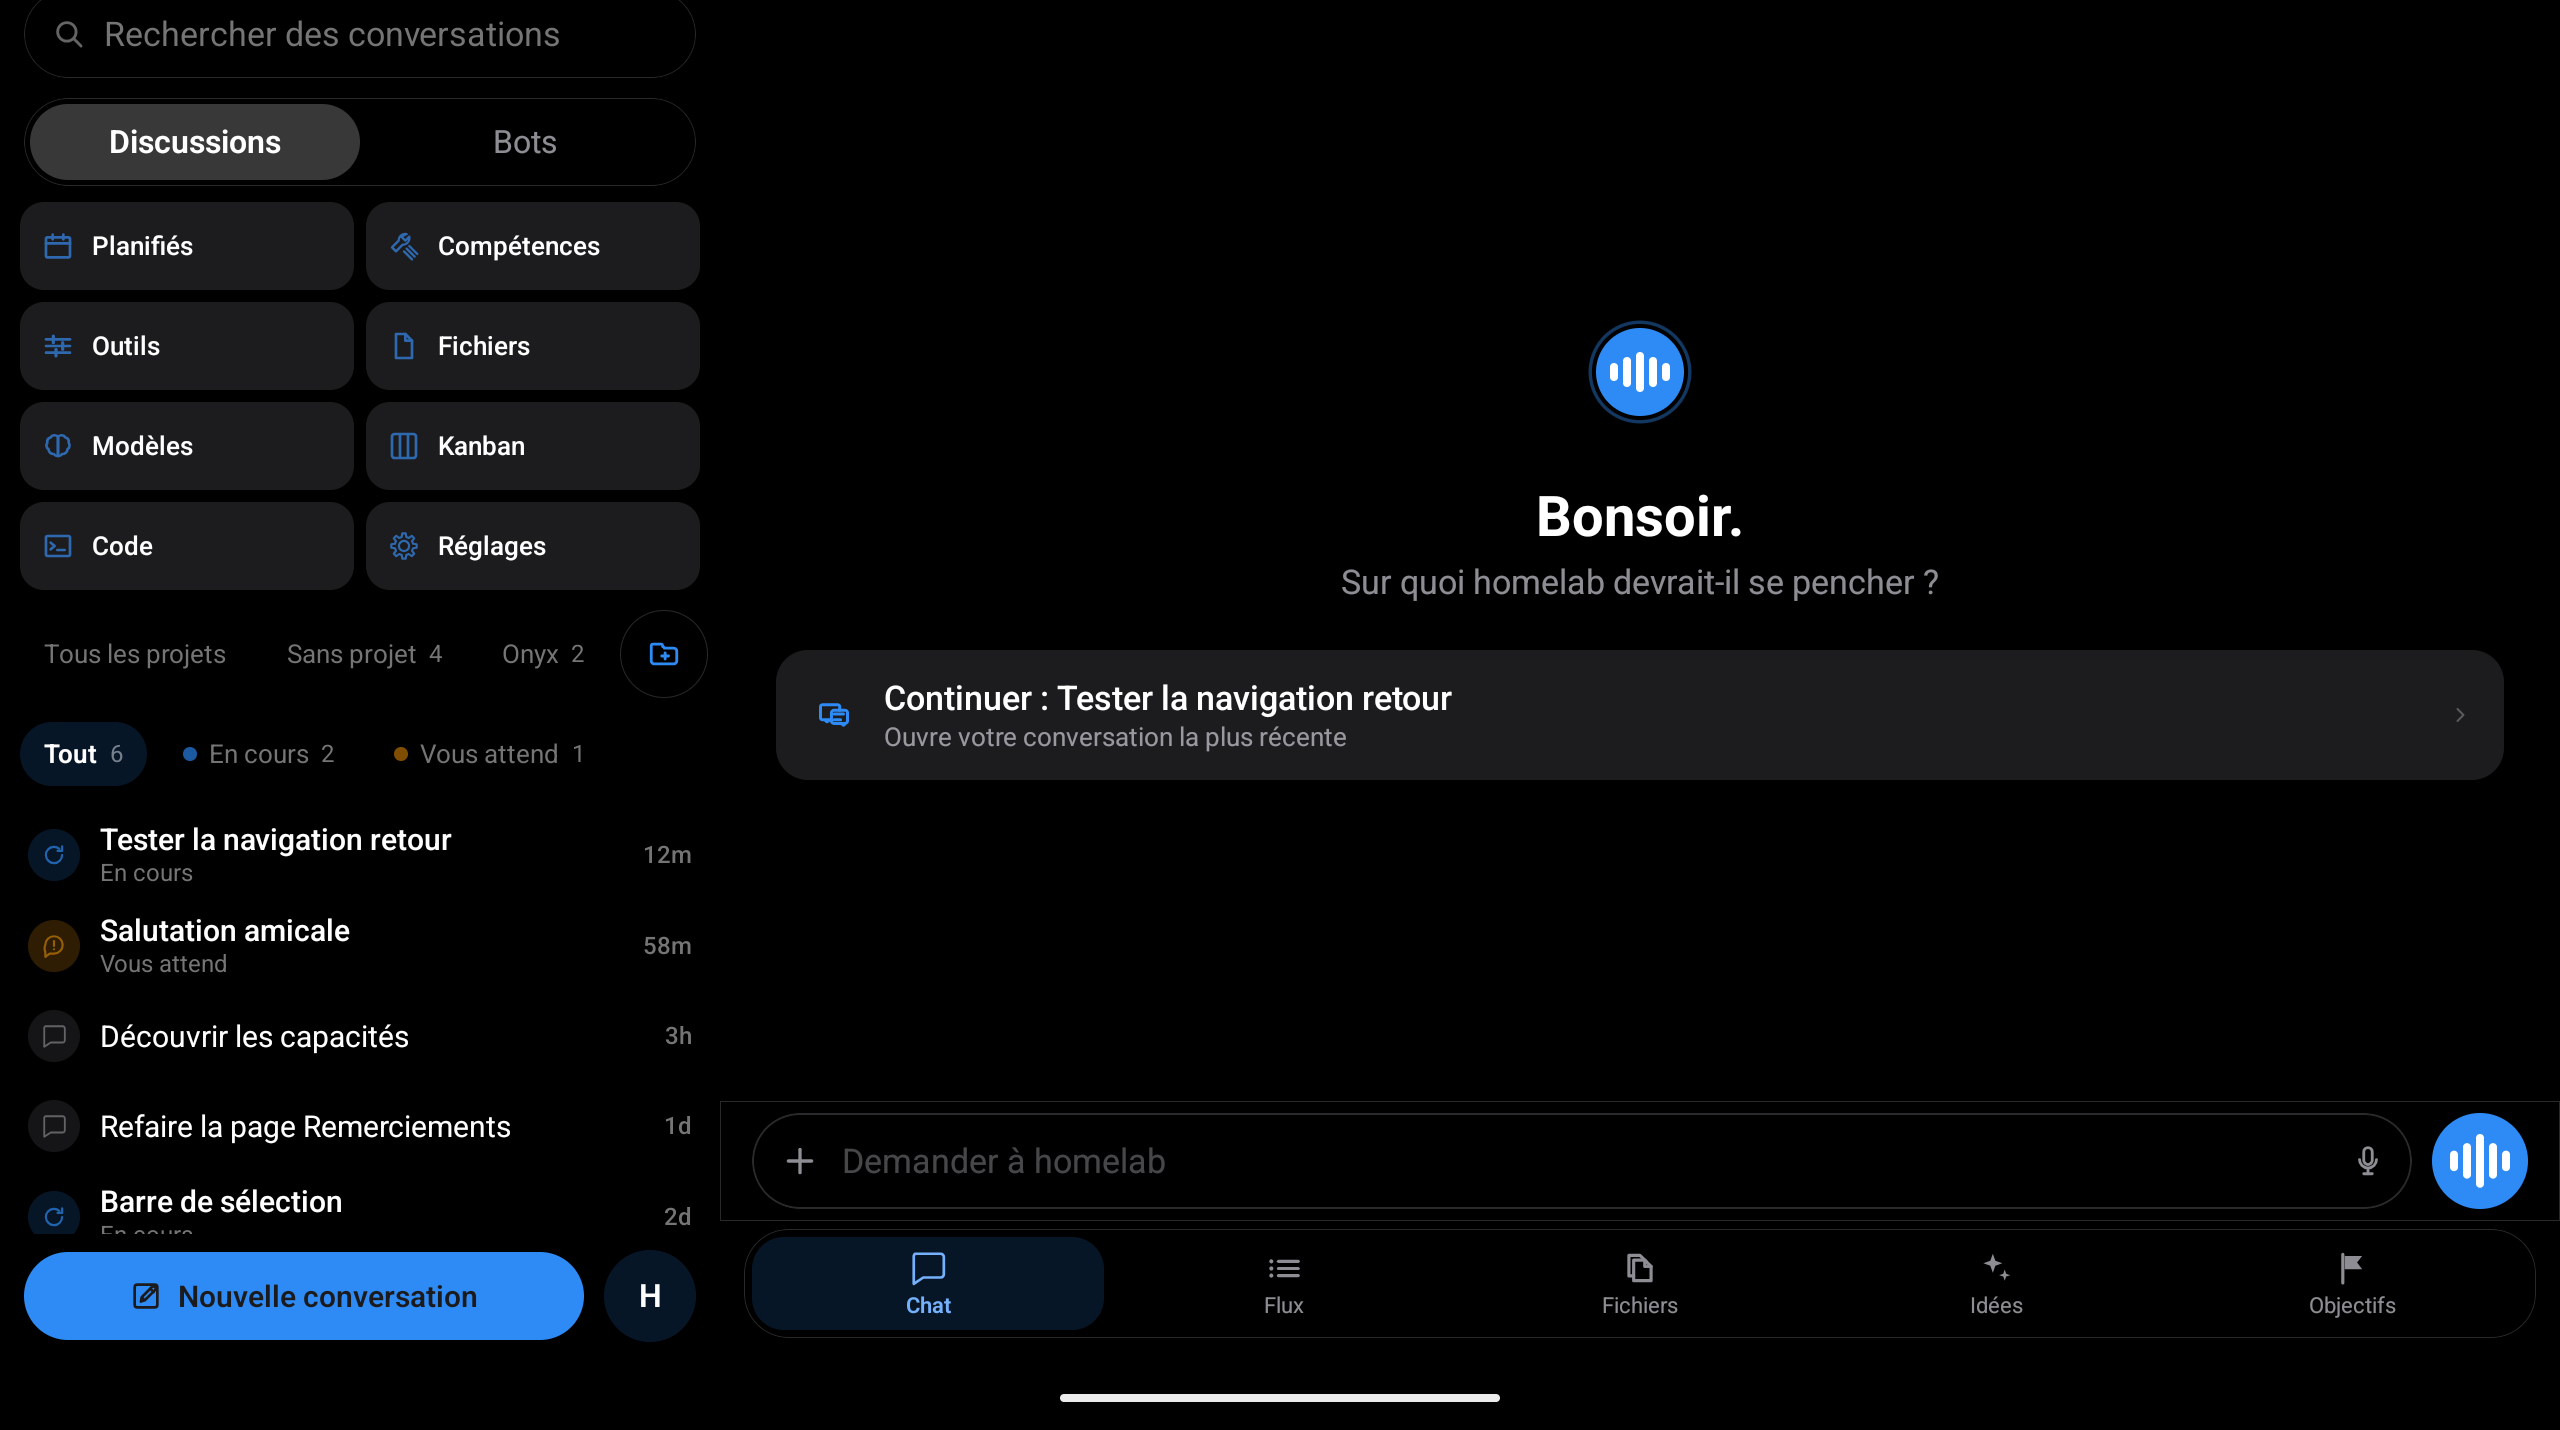
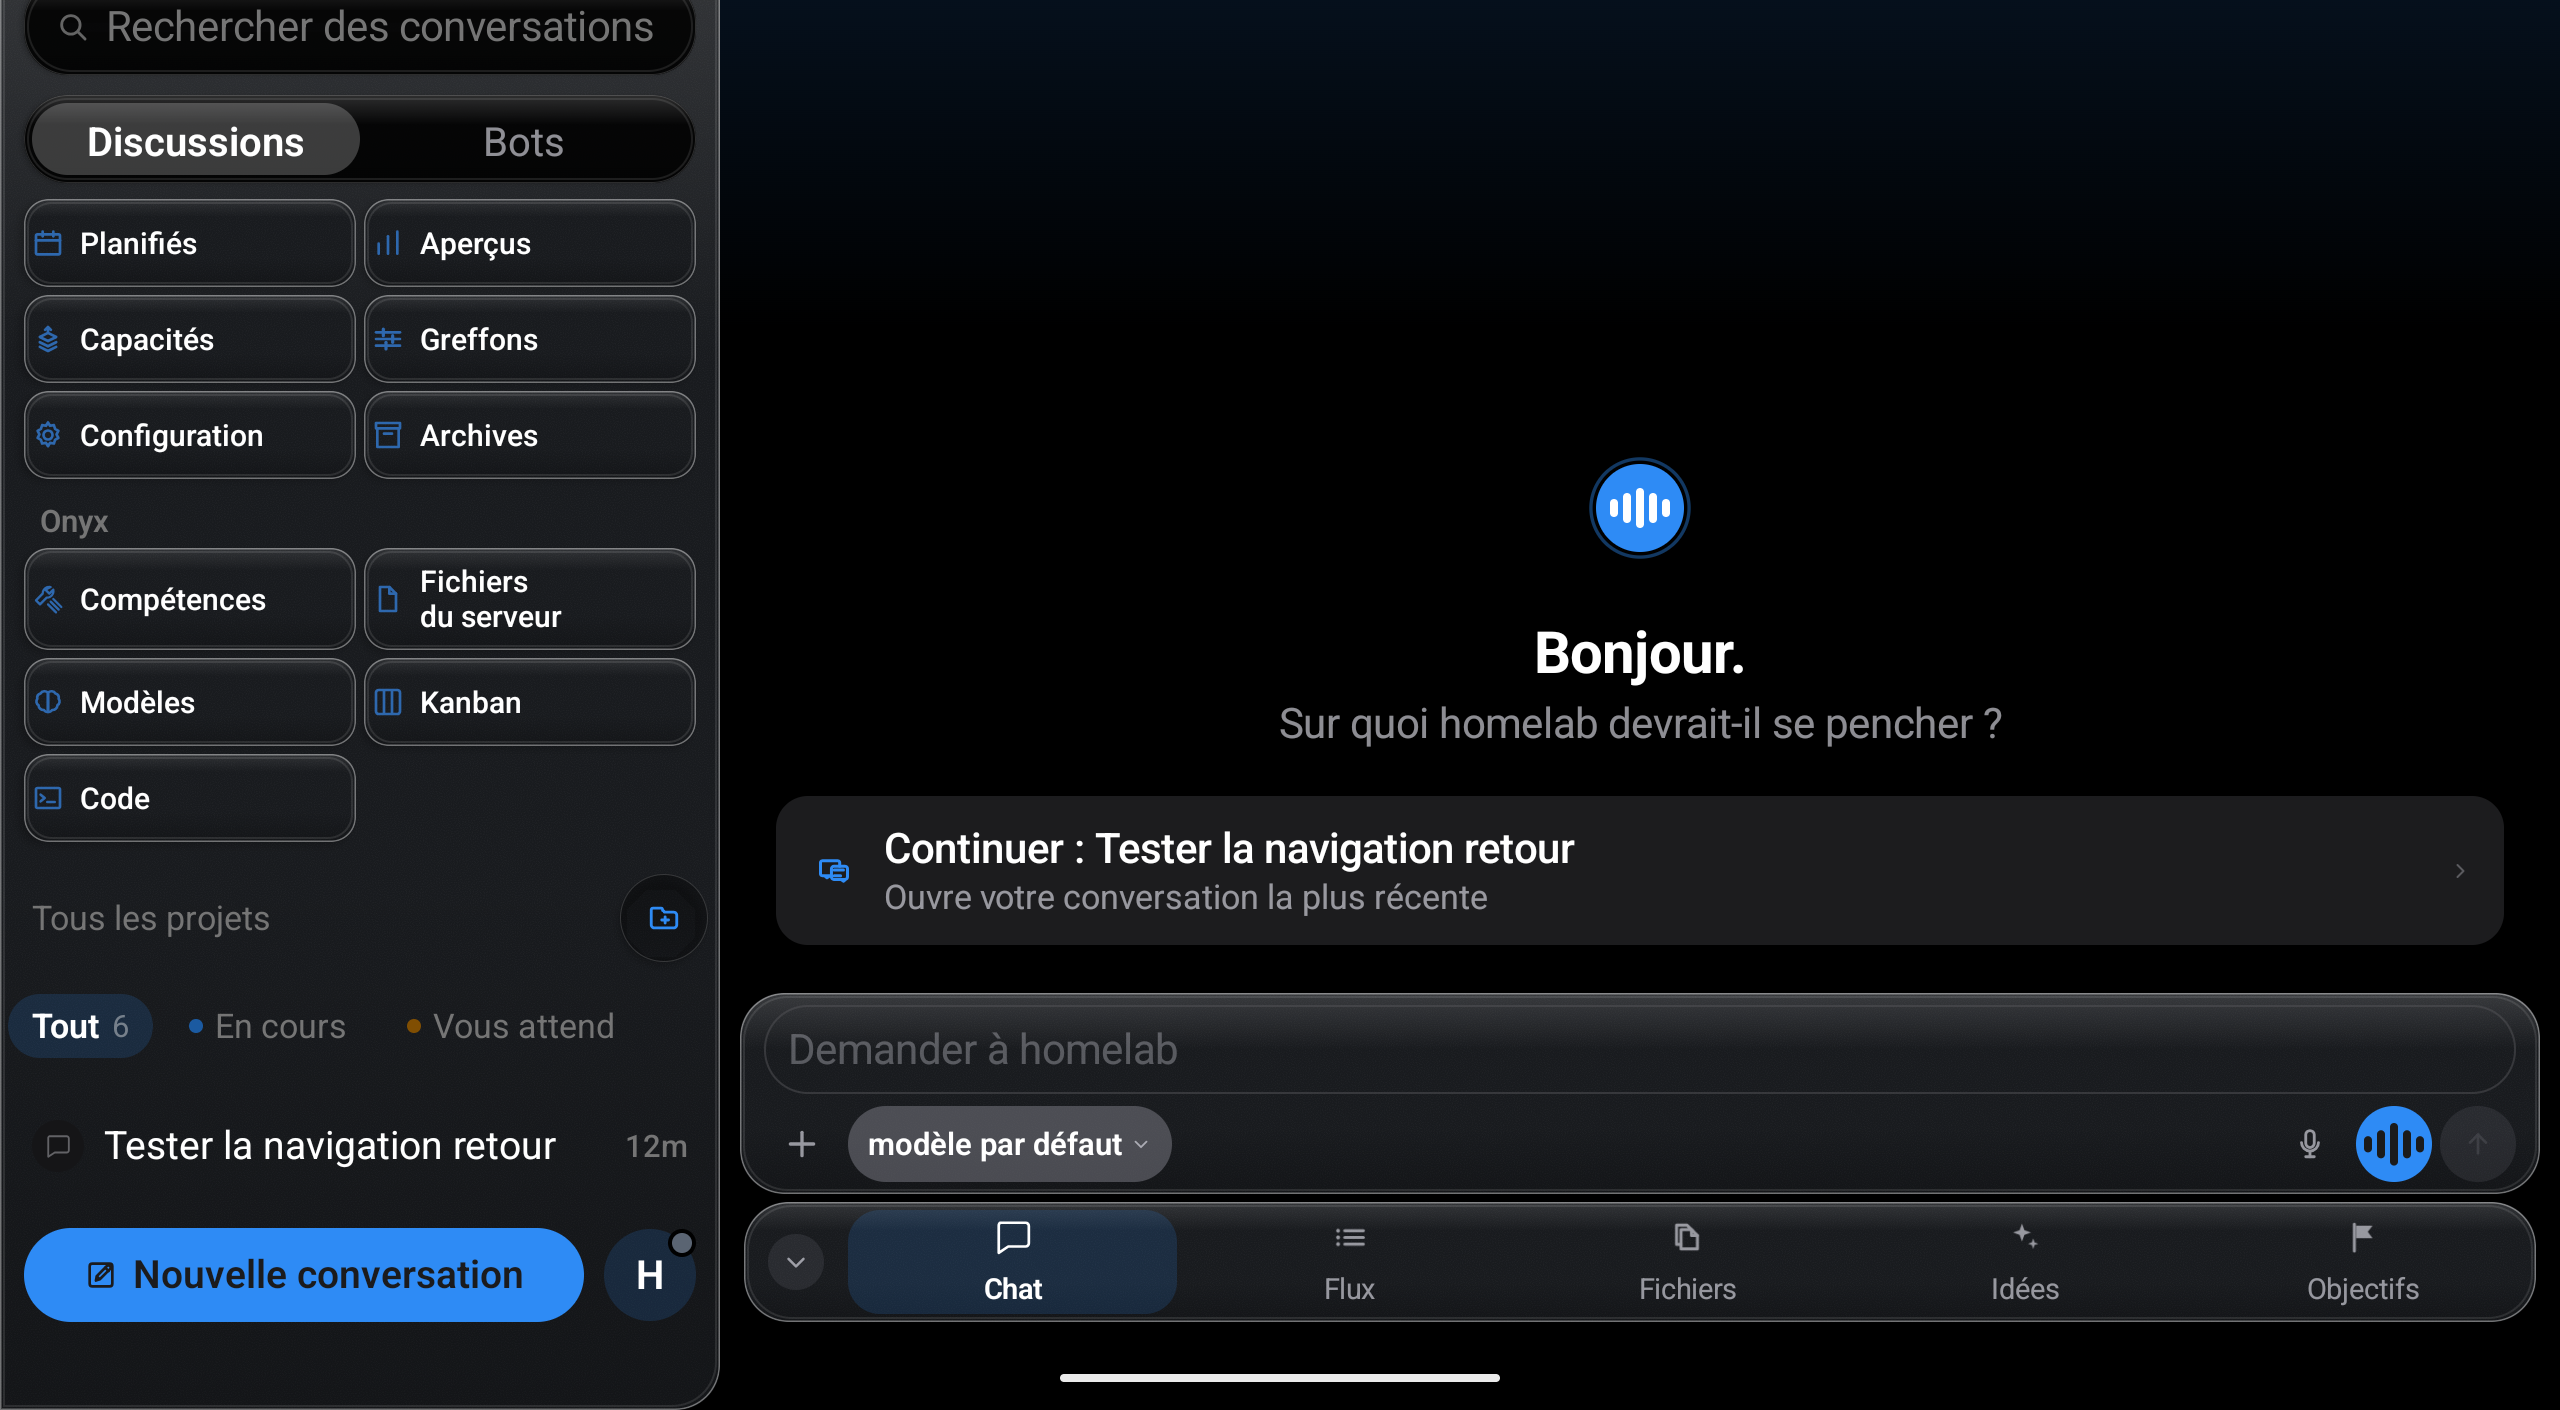
README: 2459 tests, install 1.0.0+546, the 546 features, fresh panel and Archive/Capabilities shots

diff --git a/README.md b/README.md
@@ -7,13 +7,13 @@ Bots with faces, rooms where they answer each other, hands-free voice — and yo
 
 [![Kotlin](https://img.shields.io/badge/Kotlin-2.1.20-7F52FF?logo=kotlin&logoColor=white)](https://kotlinlang.org)
 [![Android](https://img.shields.io/badge/Android-8.0%2B%20(API%2026)-3DDC84?logo=android&logoColor=white)](#requirements)
-[![Tests](https://img.shields.io/badge/tests-2146%20passing-brightgreen)](#tests)
+[![Tests](https://img.shields.io/badge/tests-2459%20passing-brightgreen)](#tests)
 [![Build](https://github.com/JemaOS/hermes-onyx/actions/workflows/build.yml/badge.svg)](https://github.com/JemaOS/hermes-onyx/actions/workflows/build.yml)
 [![Release](https://img.shields.io/github/v/release/JemaOS/hermes-onyx?sort=semver&color=blue)](https://github.com/JemaOS/hermes-onyx/releases/latest)
 [![License](https://img.shields.io/badge/license-MIT-blue)](LICENSE)
 
 <p>
-  <img src="docs/screenshots/conversations.png" width="19%" alt="Conversations, bots and rooms" />
+  <img src="docs/screenshots/conversations.png" width="19%" alt="The panel: search, the tile grid, the projects and the conversations" />
   <img src="docs/screenshots/conversation-feed.png" width="19%" alt="The Feed tab of a conversation" />
   <img src="docs/screenshots/voice-hands-free.png" width="19%" alt="Hands-free voice, listening" />
   <img src="docs/screenshots/code-sessions.png" width="19%" alt="Code sessions, with branch and status" />
@@ -40,7 +40,8 @@ phone without handing your prompts to a third party, this is that app.
   **bots**: a two-position switch (**Chats** / **Bots**) moves between them, so the bots are never mixed
   into the conversation list, and the *Bots* label carries how many of them are waiting for you. The
   pane shows the gateway's name, its address and a reachability light, a search field, the tiles to the
-  app's screens (**Scheduled, Skills, Tools, Files, Models, Kanban, Code, Settings**), your **projects**
+  app's screens (**Scheduled, Overviews, Capabilities, Plugins, Configuration, Archives**, then
+  **Skills, Files, Models, Kanban, Code**), your **projects**
   with their counts, the filters — **All**, **Running**, **Waiting for you** — with their counts, and the
   conversation rows with their age. On a wide screen it stands **beside** the thread; on a phone it
   unfolds over it and folds back with one tap.
@@ -153,23 +154,62 @@ a server that keeps them switched off; **Background processes** come from `proce
 too. **Usage & cost** reads `session.usage`, which carries **no price field**: the panel shows `—` and
 the sentence the server gave it, never a made-up figure.
 
+## What 1.0.0+546 brings
+
+- **The panel grid now matches the reference.** Six reference destinations in a locked order
+  (`referenceTiles`, `referenceOrder`) — Scheduled, Overviews, Capabilities, Plugins, Configuration and
+  **Archives** — then the **Onyx** group (Skills, Files, Models, Kanban, Code): eleven distinct
+  destinations, no duplicates, every tile opens a real screen. The **Archive screen** is new here:
+  archived conversations leave the list but stay resumable, and each row restores from the Archive.
+- **Search is a full-panel screen**, not a filter over the list: opening it hides the tiles, the
+  projects, the *Chats / Bots* switch and the filters, so the field and its results are the only
+  content; Back leaves search before it closes the panel (`searching`, `search = true|false`).
+- **The account sheet shows the gateway's real state** — the measured latency when it answers, or
+  offline with a **real retry countdown** (30 s policy) and the probe's own reason
+  (`secondsLeft = … AccountRetry.secondsUntil(…)`, `"Connected · %1$d ms"`, `"Offline · new attempt in %1$d s"`).
+- **Usage and cost read the server, in real figures** — `session.resume` first for the run id, then
+  `session.usage` and `session.context_breakdown`: tokens in / out / reasoning, cache read, cache
+  written and cache share, total, API calls, context used / max / percent, what fills the window and
+  the context file manifest.
+- **Capabilities, Skills and MCP, exhaustively** — add, test, enable, remove, with expandable tool
+  lists (`ui/capabilities/`: `CapabilitiesScreen.kt`, `SkillPages.kt`, `McpPages.kt`).
+- **A flat light theme and a glass dark theme.** In light the surfaces are flat, with a measured
+  detachment floor (`FlatDetachmentMin = 1.20f`); in dark the bars and the composer are **real glass**
+  over what is behind them (`veilIsNeverLighterThanPage`).
+- **The panel is full width on a phone.** The overlay takes the **whole window**
+  (`sidebarOverlayWidthFor`), so no strip of the thread is left beside it to be misread as a second
+  panel; from 800 dp it is docked instead.
+
+**What this build does not do here.** Restore points stay **off server-side**: `rollback.list` answers
+`enabled: false`, so the panel says the folder keeps no restore points and offers nothing. **No model
+price is exposed** by the usage route, so *Estimated* and *Actual* both show `—` and the panel says the
+counters above are all it has. There is **no notification while the app is closed** — alerts only
+arrive while the app is running. And the **background blur of the glass** cannot be judged on an
+emulator (it renders in software), so it still has to be checked on a real device.
+
 ## Screenshots
 
 | Chat | Feed | Files | Ideas | Code sessions |
 |:---:|:---:|:---:|:---:|:---:|
 | <img src="docs/screenshots/conversation-chat.png" width="100%"> | <img src="docs/screenshots/conversation-feed.png" width="100%"> | <img src="docs/screenshots/conversation-files.png" width="100%"> | <img src="docs/screenshots/conversation-ideas.png" width="100%"> | <img src="docs/screenshots/code-sessions.png" width="100%"> |
 
-| The sidebar, the thread beside it | Conversation actions, as a sheet |
+| The panel, docked beside the thread | The Archive screen | Capabilities — Skills and MCP |
+|:---:|:---:|:---:|
+| <img src="docs/screenshots/conversation-sidebar.png" width="100%"> | <img src="docs/screenshots/archive.png" width="100%"> | <img src="docs/screenshots/capabilities.png" width="100%"> |
+
+| The panel, over the thread on a phone | Conversation actions, as a sheet |
 |:---:|:---:|
-| <img src="docs/screenshots/conversation-sidebar.png" width="100%"> | <img src="docs/screenshots/conversation-actions-sheet.png" width="100%"> |
+| <img src="docs/screenshots/conversations.png" width="100%"> | <img src="docs/screenshots/conversation-actions-sheet.png" width="100%"> |
 
 The bot roster in the first picture is read from the server: the app lists the profiles it exposes, so a
 profile called `QA-tester` appears under that name.
 
 Every screenshot in this README was taken on an emulator, in the **dark theme**, against a test
-server holding demo data — no real machine, no real conversation, no token. The **sidebar** and the
-**conversation actions** sheet are the **1.0.0+438** build, the **Files** tab is **1.0.0+437**; the
-others are **1.0.0+423**.
+server holding demo data — no real machine, no real conversation, no token. The **panel** (docked and
+over the thread), the **Archive** screen and the **Capabilities** screen are the **1.0.0+546** build;
+the **conversation actions** sheet is **1.0.0+438**, the **Files** tab is **1.0.0+437**, and the rest
+are **1.0.0+423**. The name on the panel (`homelab`) and the letter chip derived from it are the test
+double's, not a real machine.
 
 ## Install
 
@@ -178,13 +218,14 @@ Three applications, one signing key, built from one code base:
 
 | File | Runs on | What it is |
 |---|---|---|
-| `Hermes-Onyx-1.0.0+467-telephone.apk` | Phone, Android 8.0+ | The app: a sidebar, a chat and its five tabs, bots, rooms, voice, code, computer, servers, kanban, cron, files, terminal, widget. |
-| `Hermes-Onyx-1.0.0+467-auto.apk` | Android Auto | The car: an "Ask" screen that streams the answer into a message card and reads it aloud. |
-| `Hermes-Onyx-1.0.0+467-wear.apk` | Wear OS 3+ (API 30) | The watch: a large microphone button, a live oscillogram, five states, and an "Ask Onyx" tile. |
+| `Hermes-Onyx-1.0.0+546-telephone.apk` | Phone, Android 8.0+ | The app: a sidebar, a chat and its five tabs, bots, rooms, voice, code, computer, servers, kanban, cron, files, terminal, widget. |
+| `Hermes-Onyx-1.0.0+546-auto.apk` | Android Auto | The car: an "Ask" screen that streams the answer into a message card and reads it aloud. |
+| `Hermes-Onyx-1.0.0+546-wear.apk` | Wear OS 3+ (API 30) | The watch: a large microphone button, a live oscillogram, five states, and an "Ask Onyx" tile. |
 
-**Upgrading from 1.0.0+460?** That release shipped a broken top bar — its taps were swallowed, the
-bot's face and the glass were gone, its corners went square, and the model chip showed the gateway
-alias instead of the model's own name. **1.0.0+467 fixes all of it**, and installs over 460.
+**Coming from an older build?** `1.0.0+546` is signed with the same key as every release before it, so
+it installs straight over `1.0.0+467`, `1.0.0+460` or `1.0.0` with no uninstall. In the other
+direction, `1.0.0+467` is the release that fixed the broken top bar `1.0.0+460` shipped (swallowed
+taps, no glass, square corners, the gateway alias where the model name belonged).
 
 The three names above are the exact asset names on the release. Each release also carries a
 `SHA256SUMS` file with the SHA-256 of the three APKs — check your download against it:
@@ -250,7 +291,7 @@ ever goes up and an APK installs over the previous one.
 ./gradlew :core:testDebugUnitTest :app:testDebugUnitTest
 ```
 
-**2146 tests, 0 failures** — 1064 in `:core`, 1082 in `:app`, across 318 test classes. Plain JUnit 4, no
+**2459 tests, 0 failures** — 1173 in `:core`, 1286 in `:app`, across 343 test classes. Plain JUnit 4, no
 emulator: networking runs against an in-memory MockWebServer, so the recipe works offline and takes about
 two minutes. CI runs the same command on every push.
 
